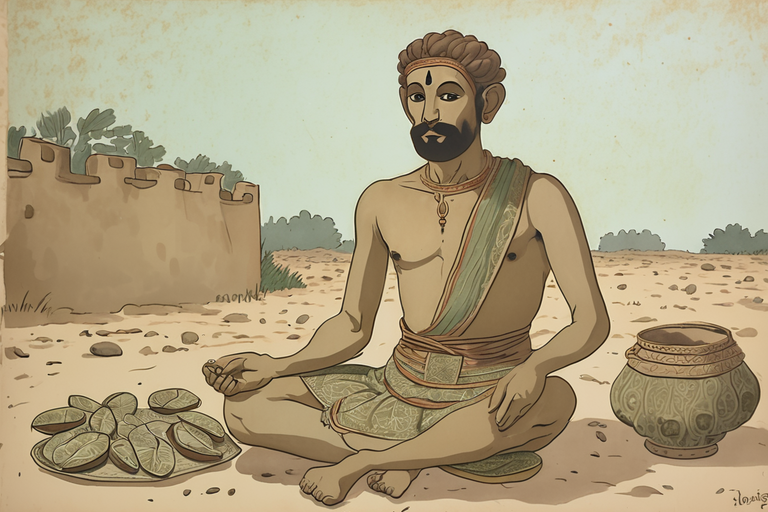
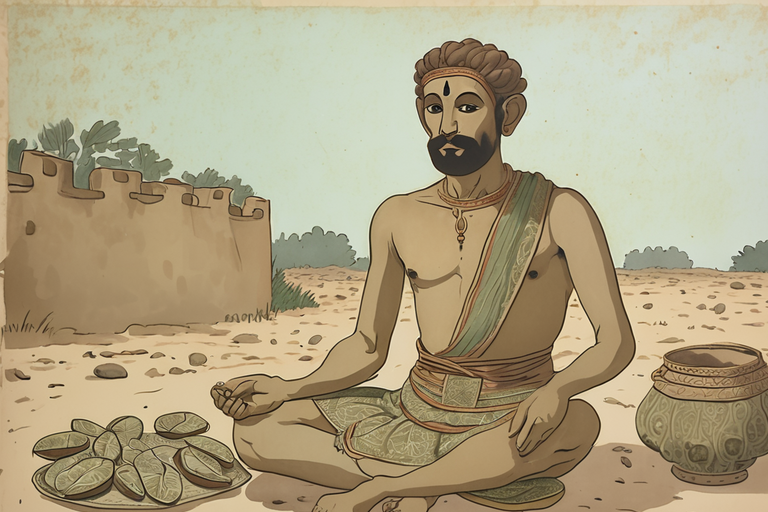
Pilot LTX inputs: scene 1 reframed so the pseudo-signature is outside the frame; prompt matches the visible gaze; README wording (Codex 38)

diff --git a/assets/pilot_ltx_inputs/README.md b/assets/pilot_ltx_inputs/README.md
@@ -2,11 +2,13 @@
 
 - `s{n}_style_anchor/04_ltx_start_768x512.png`: made from the owner-approved style-anchor keyframe `docs/evidence/sdxl_scenes/style_anchor_16d48472/scene{n}_keyframe.png`
   (SDXL output, 1216x832) with `ffmpeg -vf "scale=768:-2:flags=lanczos,crop=768:512"` (scale to 768 wide, centre-crop the height to 512; no aspect distortion).
+  Scene 1 only: `ffmpeg -vf "scale=800:-2:flags=lanczos,crop=768:512:0:0"` (about 4 % tighter, anchored top-left) so that a small pseudo-signature SDXL drew in the
+  bottom-right corner falls outside the frame (the frozen style forbids text and signatures). This is a reframing of the AI image, not a retouch: no pixel was painted.
   Owner decision 2026-10-24: "Use these three style-anchor keyframes for the pilot video and move on to the video stage."
 - `prompt.txt`: written by the assistant to describe ONLY what each keyframe shows, plus gentle motion. A slow push-in is allowed instead of fought: the
-  camera-lock experiment (docs/evidence/kaggle_dual_t4/gpu0_attempt6_camera_lock) showed LTX 0.9.8 on a T4 adds a push-in regardless of the prompt, and the owner
+  camera-lock experiment (docs/evidence/kaggle_dual_t4/gpu0_attempt6_camera_lock) showed that the tested camera-lock prompt did not prevent a push-in with LTX 0.9.8 on a T4, and the owner
   asked not to spend more GPU on static-camera prompts.
-- Known content gaps (owner accepted the keyframes as they are): scene 1 shows an adult with a beard, not the young man of the text; scene 2 shows two seated
+- Known content gaps (owner accepted the keyframes as they are; the scene 1 keyframe also carried a pseudo-signature, removed by the crop above): scene 1 shows an adult with a beard, not the young man of the text; scene 2 shows two seated
   townsmen and no young man; scene 3 shows two men eating, not the householder serving the young man. The prompts follow the images, not the planned actions.
 - `negative_prompt.txt`: copied from assets/ltx_test_inputs/painted_courtyard_01 (recorded, not applied at cfg 1).
 - PROVISIONAL TECHNICAL TEST inputs; not Granth canon; human review NOT_DONE.

diff --git a/docs/evidence/codex_reviews/38_review37_ltx_inputs.md b/docs/evidence/codex_reviews/38_review37_ltx_inputs.md
@@ -1,0 +1,9 @@
+**MAJOR** — `assets/pilot_ltx_inputs/s1_style_anchor/04_ltx_start_768x512.png` (binary; lower-right corner), documented at `README.md:9`: the crop retains a visible signature-like inscription, contrary to `canon/style.yaml:23–24`. The known gaps omit it. Remove the inscription or record an explicit owner exception to the text/watermark prohibition before running scene 1.
+
+**MINOR** — `assets/pilot_ltx_inputs/s1_style_anchor/prompt.txt:2`: “his gaze stays lowered” contradicts the visibly forward-facing gaze. Describe the visible gaze.
+
+**MINOR** — `assets/pilot_ltx_inputs/README.md:7`: “regardless of the prompt” overstates the camera experiment. State that the tested camera-lock prompt failed to prevent push-in.
+
+Otherwise, all three folders satisfy both `PAINTED_INPUT` filename checks; PNG headers confirm 768×512; negative prompts are exact copies. Narrative gaps are disclosed, and no additional Granth fact is asserted. Scripts, workflow pins, and stage gates are unchanged.
+
+**Scene 1 approval remains blocked by the inscription issue.** No GPU, downloads, network, file modifications, or inference tests were performed; crop pixels were not independently reproduced.
